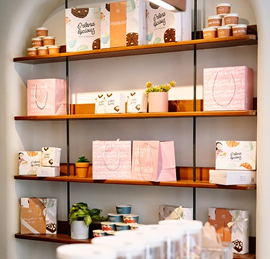
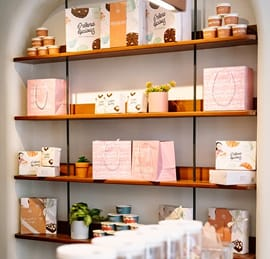
Optimize images and caching for a smoother website
- Resize and recompress the 27 site images (max 1600px, hero 2000px),
  same file names; add WebP twins served automatically via .htaccess
  when the browser accepts WebP (home page 99.8 MB -> 3.8 MB)
- Long browser caching for images and fonts, immutable for hashed build
  assets, text compression
- Dashboard uploads are stored as WebP of at most 1600px when GD is
  available (phone photos drop from several MB to a few hundred KB)

diff --git a/app/Support/ContentImage.php b/app/Support/ContentImage.php
@@ -3,6 +3,8 @@
 namespace App\Support;
 
 use Illuminate\Http\UploadedFile;
+use Illuminate\Support\Facades\Storage;
+use Illuminate\Support\Str;
 
 class ContentImage
 {
@@ -12,8 +14,80 @@ class ContentImage
     /** Existing images must be site assets or earlier uploads; arbitrary URLs are rejected. */
     public const PATH = ['nullable', 'string', 'max:500', 'regex:#^/(assets|storage/content)/[^?\#]+\.(png|jpe?g|webp)$#i', 'not_regex:#\.\.#'];
 
+    /** Longest side of stored uploads; photos are shown in cards and sliders, never larger than this. */
+    private const MAX_SIDE = 1600;
+
     public static function resolve(?UploadedFile $upload, ?string $current): ?string
     {
-        return $upload ? '/storage/'.$upload->store('content', 'public') : $current;
+        if (! $upload) {
+            return $current;
+        }
+
+        return self::optimized($upload) ?? '/storage/'.$upload->store('content', 'public');
+    }
+
+    /**
+     * Phone photos are often 5-10 MB. When GD can, store a WebP of at most MAX_SIDE pixels instead
+     * (usually 100-300 KB); otherwise the original is kept.
+     */
+    private static function optimized(UploadedFile $upload): ?string
+    {
+        if (! extension_loaded('gd') || ! function_exists('imagewebp')) {
+            return null;
+        }
+        $path = $upload->getRealPath();
+        $info = @getimagesize($path);
+        $image = match ($info[2] ?? null) {
+            IMAGETYPE_JPEG => @imagecreatefromjpeg($path),
+            IMAGETYPE_PNG => @imagecreatefrompng($path),
+            IMAGETYPE_WEBP => @imagecreatefromwebp($path),
+            default => false,
+        };
+        if (! $image) {
+            return null;
+        }
+        $image = self::orient($image, $path, $info[2]);
+        $width = imagesx($image);
+        $height = imagesy($image);
+        $scale = min(1, self::MAX_SIDE / max($width, $height));
+        if ($scale < 1) {
+            $resized = imagecreatetruecolor((int) round($width * $scale), (int) round($height * $scale));
+            imagealphablending($resized, false);
+            imagesavealpha($resized, true);
+            imagecopyresampled($resized, $image, 0, 0, 0, 0, imagesx($resized), imagesy($resized), $width, $height);
+            imagedestroy($image);
+            $image = $resized;
+        } else {
+            imagepalettetotruecolor($image);
+            imagealphablending($image, false);
+            imagesavealpha($image, true);
+        }
+        ob_start();
+        $ok = imagewebp($image, null, 80);
+        $data = (string) ob_get_clean();
+        imagedestroy($image);
+        if (! $ok || $data === '') {
+            return null;
+        }
+        $name = 'content/'.Str::random(40).'.webp';
+        Storage::disk('public')->put($name, $data);
+
+        return '/storage/'.$name;
+    }
+
+    /** Phone JPEGs store rotation in EXIF; apply it so portrait photos are not sideways. */
+    private static function orient(\GdImage $image, string $path, int $type): \GdImage
+    {
+        if ($type !== IMAGETYPE_JPEG || ! function_exists('exif_read_data')) {
+            return $image;
+        }
+        $angle = match ((int) (@exif_read_data($path)['Orientation'] ?? 1)) {
+            3 => 180,
+            6 => -90,
+            8 => 90,
+            default => 0,
+        };
+
+        return $angle ? (imagerotate($image, $angle, 0) ?: $image) : $image;
     }
 }

diff --git a/tests/Feature/ContentImageTest.php b/tests/Feature/ContentImageTest.php
@@ -1,0 +1,28 @@
+<?php
+
+namespace Tests\Feature;
+
+use App\Support\ContentImage;
+use Illuminate\Http\UploadedFile;
+use Illuminate\Support\Facades\Storage;
+use PHPUnit\Framework\Attributes\RequiresPhpExtension;
+use Tests\TestCase;
+
+class ContentImageTest extends TestCase
+{
+    #[RequiresPhpExtension('gd')]
+    public function test_large_uploads_are_stored_as_small_webp(): void
+    {
+        Storage::fake('public');
+        $path = ContentImage::resolve(UploadedFile::fake()->image('phone-photo.jpg', 4000, 3000), null);
+
+        $this->assertMatchesRegularExpression('#^/storage/content/[A-Za-z0-9]{40}\.webp$#', $path);
+        [$width, $height] = getimagesizefromstring(Storage::disk('public')->get(substr($path, strlen('/storage/'))));
+        $this->assertSame([1600, 1200], [$width, $height]);
+    }
+
+    public function test_without_an_upload_the_current_image_is_kept(): void
+    {
+        $this->assertSame('/assets/images/outlet1.jpg', ContentImage::resolve(null, '/assets/images/outlet1.jpg'));
+    }
+}
